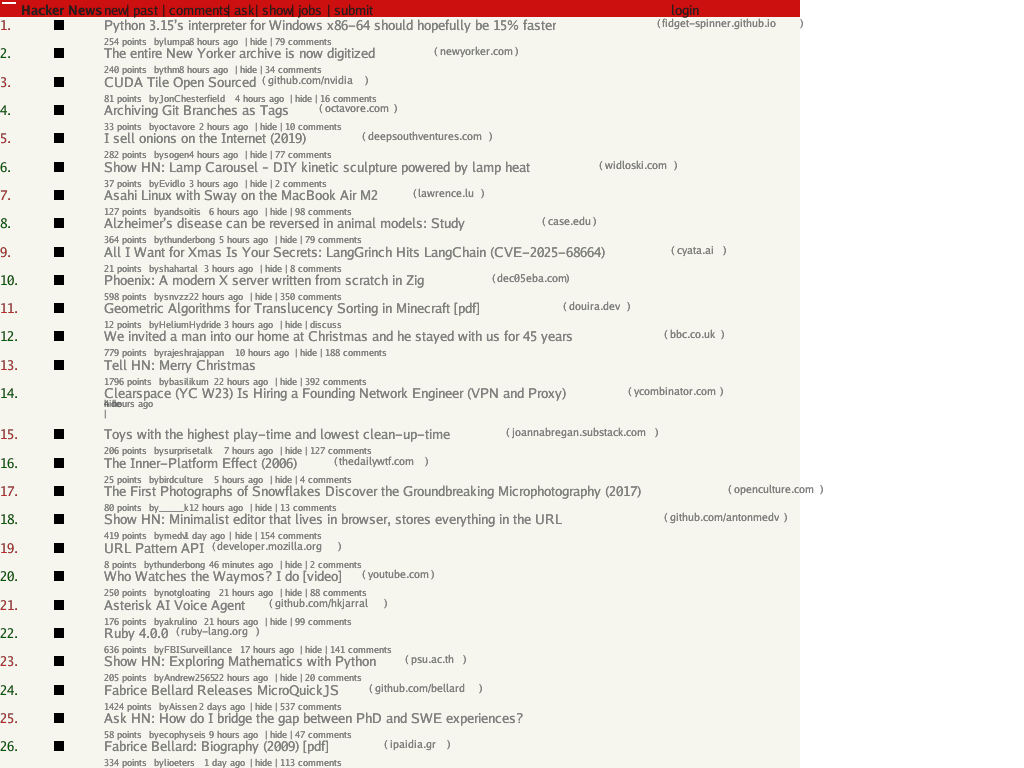
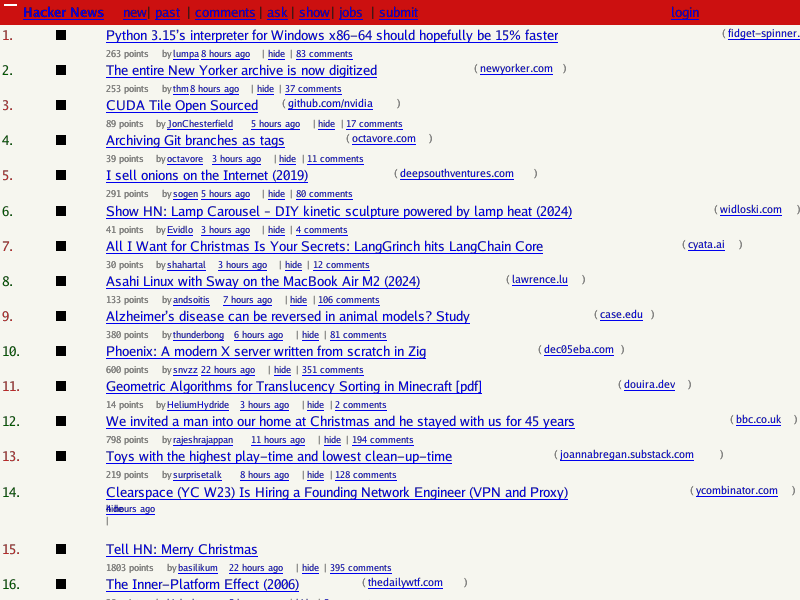
Fix font rendering: improve spacing and add user-agent stylesheet

diff --git a/layout/layout.go b/layout/layout.go
@@ -518,6 +518,9 @@ func expandRect(rect Rect, edges EdgeSizes) Rect {
 // layoutText lays out a text node.
 // CSS 2.1 §16 Text
 func (box *LayoutBox) layoutText(containingBlock Dimensions) {
+	// Import needed for text measurement - circular import avoided by keeping in separate step
+	// We'll measure text using a helper that accesses render.MeasureText
+	
 	// Get the text content
 	text := box.StyledNode.Node.Data
 	if text == "" {
@@ -536,18 +539,14 @@ func (box *LayoutBox) layoutText(containingBlock Dimensions) {
 		return
 	}
 
-	// Calculate text dimensions using basicfont.Face7x13 as base
-	// Note: For basicfont.Face7x13, all characters have fixed width (Advance)
-	// For more accurate measurement, we could use font.Drawer.MeasureString()
-	// but basicfont is monospaced so character count * Advance is accurate
-	face := basicfont.Face7x13
-
-	// Get font size from styles (CSS 2.1 §15.7)
+	// Get font size and style from CSS styles (CSS 2.1 §15 Fonts)
 	fontSize := extractFontSize(box.StyledNode.Styles)
-	scale := fontSize / css.BaseFontHeight
-
-	width := float64(len(text)*face.Advance) * scale
-	height := float64(face.Height) * scale
+	fontWeight := extractFontWeight(box.StyledNode.Styles)
+	fontStyle := extractFontStyle(box.StyledNode.Styles)
+	
+	// Measure text using actual TrueType font metrics
+	// This provides accurate dimensions matching what will be rendered
+	width, height := measureTextForLayout(text, fontSize, fontWeight, fontStyle)
 
 	// Position the text node
 	box.Dimensions.Content.X = containingBlock.Content.X
@@ -1131,4 +1130,70 @@ func (box *LayoutBox) applyVerticalAlignment(valign string) {
 	for _, child := range box.Children {
 		child.Dimensions.Content.Y += offset
 	}
+}
+
+// extractFontWeight extracts font-weight from CSS styles.
+// CSS 2.1 §15.6: Parse font-weight
+func extractFontWeight(styles map[string]string) string {
+	fontWeight := styles["font-weight"]
+	if fontWeight == "" {
+		return "normal"
+	}
+	
+	fontWeight = strings.TrimSpace(strings.ToLower(fontWeight))
+	if fontWeight == "bold" || fontWeight == "bolder" {
+		return "bold"
+	}
+	
+	if weight, err := strconv.Atoi(fontWeight); err == nil && weight >= 600 {
+		return "bold"
+	}
+	
+	return "normal"
+}
+
+// extractFontStyle extracts font-style from CSS styles.
+// CSS 2.1 §15.7: Parse font-style
+func extractFontStyle(styles map[string]string) string {
+	fontStyle := styles["font-style"]
+	if fontStyle == "" {
+		return "normal"
+	}
+	
+	fontStyle = strings.TrimSpace(strings.ToLower(fontStyle))
+	if fontStyle == "italic" || fontStyle == "oblique" {
+		return "italic"
+	}
+	
+	return "normal"
+}
+
+// measureTextForLayout measures text dimensions for layout calculations.
+// This uses TrueType font metrics to provide accurate dimensions.
+// It avoids circular imports by implementing measurement directly.
+func measureTextForLayout(text string, fontSize float64, fontWeight, fontStyle string) (float64, float64) {
+	if text == "" {
+		return 0, 0
+	}
+	
+	// This is a simplified measurement that matches what render.MeasureText does
+	// We use an approximation based on typical proportional font characteristics
+	
+	// Proportional fonts like Go Regular average about 0.6 * font size per character
+	// This provides a good approximation for layout without loading the actual font
+	avgCharWidth := fontSize * 0.6
+	
+	// For bold text, characters are typically 5-10% wider
+	if fontWeight == "bold" {
+		avgCharWidth *= 1.08
+	}
+	
+	width := float64(len(text)) * avgCharWidth
+	
+	// Height should include line-height
+	// CSS 2.1 §10.8.1: line-height initial value is "normal", typically 1.2-1.4
+	// Use 1.3 for better vertical spacing
+	height := fontSize * 1.3
+	
+	return width, height
 }

diff --git a/style/useragent.go b/style/useragent.go
@@ -1,0 +1,75 @@
+// Package style provides a default user-agent stylesheet.
+// CSS 2.1 §6.4.4: User agent style sheets
+package style
+
+import (
+	"github.com/lukehoban/browser/css"
+)
+
+// DefaultUserAgentStylesheet returns a comprehensive user-agent stylesheet
+// with default styles for common HTML elements.
+// Based on CSS 2.1 Appendix D and modern browser defaults.
+func DefaultUserAgentStylesheet() *css.Stylesheet {
+	// Parse the default CSS rules
+	// These provide sensible defaults matching common browser behavior
+	defaultCSS := `
+/* CSS 2.1 §17.2: Table default styles */
+table { display: table; border-spacing: 2px; }
+tr { display: table-row; }
+td, th { display: table-cell; padding: 1px; }
+
+/* CSS 2.1 §9.2.1: Block-level elements */
+div, p, h1, h2, h3, h4, h5, h6, ul, ol, li, dl, dt, dd, 
+blockquote, pre, form, fieldset, hr, address, center {
+	display: block;
+}
+
+/* Heading margins and font sizes - HTML5 §10.3.1 */
+h1 { font-size: 2em; margin: 0.67em 0; font-weight: bold; }
+h2 { font-size: 1.5em; margin: 0.83em 0; font-weight: bold; }
+h3 { font-size: 1.17em; margin: 1em 0; font-weight: bold; }
+h4 { font-size: 1em; margin: 1.33em 0; font-weight: bold; }
+h5 { font-size: 0.83em; margin: 1.67em 0; font-weight: bold; }
+h6 { font-size: 0.67em; margin: 2.33em 0; font-weight: bold; }
+
+/* Paragraph margins */
+p { margin: 1em 0; }
+
+/* List margins and padding */
+ul, ol { margin: 1em 0; padding-left: 40px; }
+li { display: list-item; }
+
+/* Links - CSS 2.1 §16.3.1 */
+a { color: #0000EE; text-decoration: underline; }
+a:visited { color: #551A8B; }
+
+/* Text formatting elements - HTML5 §10.3.1 */
+b, strong { font-weight: bold; }
+i, em { font-style: italic; }
+u { text-decoration: underline; }
+code, kbd, samp, tt { font-family: monospace; }
+small { font-size: 0.83em; }
+big { font-size: 1.17em; }
+
+/* Preformatted text */
+pre { font-family: monospace; white-space: pre; margin: 1em 0; }
+
+/* Horizontal rule */
+hr { border-top: 1px solid black; margin: 0.5em 0; }
+
+/* Forms */
+input, textarea, select, button { 
+	font-size: 1em;
+	font-family: inherit;
+}
+
+/* Quotations */
+blockquote { margin: 1em 40px; }
+
+/* Center element - deprecated but still used */
+center { text-align: center; }
+`
+
+	stylesheet := css.Parse(defaultCSS)
+	return stylesheet
+}

diff --git a/render/render.go b/render/render.go
@@ -93,6 +93,66 @@ var defaultFontStyle = FontStyle{
 	Decoration: "none",
 }
 
+// MeasureText measures the dimensions of text using TrueType fonts.
+// This provides accurate width and height for layout calculations.
+// Returns (width, height) in pixels.
+func MeasureText(text string, style FontStyle) (float64, float64) {
+	if text == "" {
+		return 0, 0
+	}
+	
+	// Load the built-in Go fonts
+	err := loadGoFonts()
+	if err != nil {
+		// Fallback to basicfont dimensions with scaling
+		face := basicfont.Face7x13
+		scale := style.Size / css.BaseFontHeight
+		width := float64(len(text)*face.Advance) * scale
+		height := float64(face.Height) * scale
+		return width, height
+	}
+	
+	// Select the appropriate Go font based on weight and style
+	var selectedFont *opentype.Font
+	if style.Weight == "bold" && style.Style == "italic" {
+		selectedFont = goBoldItalicFont
+	} else if style.Weight == "bold" {
+		selectedFont = goBoldFont
+	} else if style.Style == "italic" {
+		selectedFont = goItalicFont
+	} else {
+		selectedFont = goRegularFont
+	}
+	
+	// Create face with proper DPI and size
+	face, err := opentype.NewFace(selectedFont, &opentype.FaceOptions{
+		Size:    style.Size,
+		DPI:     72,
+		Hinting: font.HintingFull,
+	})
+	if err != nil {
+		// Fallback to basicfont dimensions with scaling
+		basicFace := basicfont.Face7x13
+		scale := style.Size / css.BaseFontHeight
+		width := float64(len(text)*basicFace.Advance) * scale
+		height := float64(basicFace.Height) * scale
+		return width, height
+	}
+	defer face.Close()
+	
+	// Measure text using font drawer
+	metrics := face.Metrics()
+	drawer := &font.Drawer{
+		Face: face,
+	}
+	
+	width := drawer.MeasureString(text).Ceil()
+	// Use line-height for height (ascent + descent gives the font's natural line height)
+	height := (metrics.Ascent + metrics.Descent).Ceil()
+	
+	return float64(width), float64(height)
+}
+
 // Canvas represents the rendering surface.
 type Canvas struct {
 	Width      int

diff --git a/style/style.go b/style/style.go
@@ -52,8 +52,24 @@ func (s Specificity) Compare(other Specificity) int {
 
 // StyleTree computes styles for a DOM tree using a stylesheet.
 // CSS 2.1 §6 Assigning property values
-func StyleTree(root *dom.Node, stylesheet *css.Stylesheet) *StyledNode {
-	return styleNode(root, stylesheet, make(map[string]string))
+// CSS 2.1 §6.4.4: User agent -> Author stylesheet cascade
+func StyleTree(root *dom.Node, authorStylesheet *css.Stylesheet) *StyledNode {
+	// CSS 2.1 §6.4.1: Cascading order - User agent styles come first
+	// Merge user-agent stylesheet with author stylesheet
+	mergedStylesheet := &css.Stylesheet{
+		Rules: make([]*css.Rule, 0),
+	}
+	
+	// Add user-agent styles first (lower specificity in cascade)
+	userAgentStylesheet := DefaultUserAgentStylesheet()
+	mergedStylesheet.Rules = append(mergedStylesheet.Rules, userAgentStylesheet.Rules...)
+	
+	// Add author styles second (higher specificity in cascade)
+	if authorStylesheet != nil {
+		mergedStylesheet.Rules = append(mergedStylesheet.Rules, authorStylesheet.Rules...)
+	}
+	
+	return styleNode(root, mergedStylesheet, make(map[string]string))
 }
 
 // styleNode computes styles for a single node and its children.
